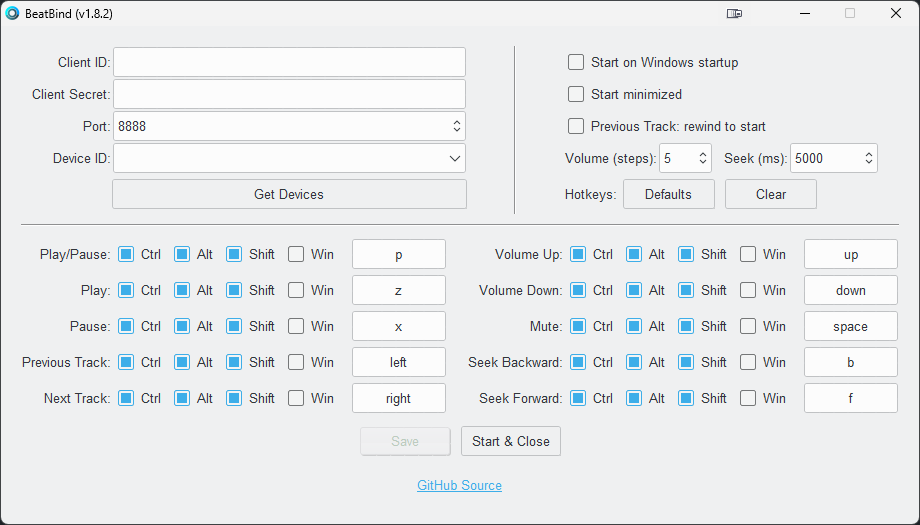
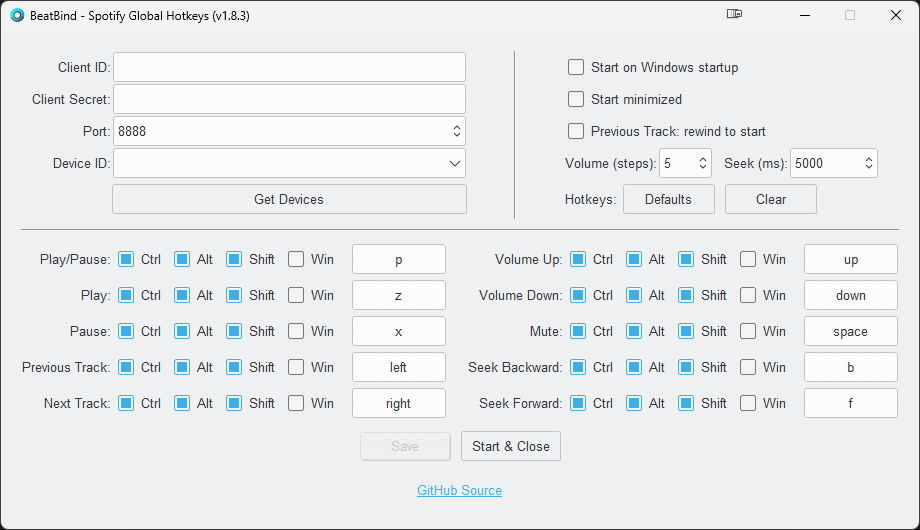
remove error message popup for tokens

diff --git a/BeatBind/backend.py b/BeatBind/backend.py
@@ -512,7 +512,6 @@ class Backend(object):
             return os.path.exists(cache_file)
         except Exception as e:
             logging.error(f"Error occurred when checking if token exists:  {e}")
-            self.ErrorMessage(e)
 
     def StartupTokenRefresh(self):
         try:
@@ -545,7 +544,6 @@ class Backend(object):
                 self.CreateToken()
         except Exception as e:
             logging.error(f"Error occurred when refreshing token on startup:  {e}")
-            self.ErrorMessage(e)
 
     def CheckTokenExpiry(self):
         try:
@@ -571,7 +569,6 @@ class Backend(object):
                 self.CreateToken()
         except Exception as e:
             logging.error(f"Error occurred when checking token expiry: {e}")
-            self.ErrorMessage(e)
 
     def RefreshToken(self):
         try:
@@ -583,7 +580,6 @@ class Backend(object):
             logging.info("Token refreshed")
         except Exception as e:
             logging.error(f"Error occurred when refreshing token: {e}")
-            self.ErrorMessage(e)
 
     def RefreshTokenThread(self):
         while True:

diff --git a/BeatBind/frontend.py b/BeatBind/frontend.py
@@ -279,7 +279,7 @@ class Frontend(object):
         try:
             root = ThemedTk(theme="breeze")
             root.withdraw()
-            root.title("BeatBind (v1.8.2)")
+            root.title("BeatBind - Spotify Global Hotkeys (v1.8.3)")
             root.iconbitmap(self.icon_path)
             root.resizable(False, False)
             root.focus_force()

diff --git a/README.md b/README.md
@@ -1,7 +1,7 @@
 # <img src="./BeatBind/icon.ico" width="4%" height="5%"> BeatBind - Spotify Global Hotkeys
 
 ![build](https://img.shields.io/badge/build-passing-brightgreen)
-[![version](https://img.shields.io/badge/version-1.8.2-blue)](https://github.com/justinknguyen/BeatBind/releases/tag/v1.8.2)
+[![version](https://img.shields.io/badge/version-1.8.3-blue)](https://github.com/justinknguyen/BeatBind/releases/tag/v1.8.3)
 ![python](https://img.shields.io/badge/python-3.10.9-yellow)
 [![contributions welcome](https://img.shields.io/badge/contributions-welcome-brightgreen.svg?style=flat)](https://github.com/justinknguyen/BeatBind/issues)
 
